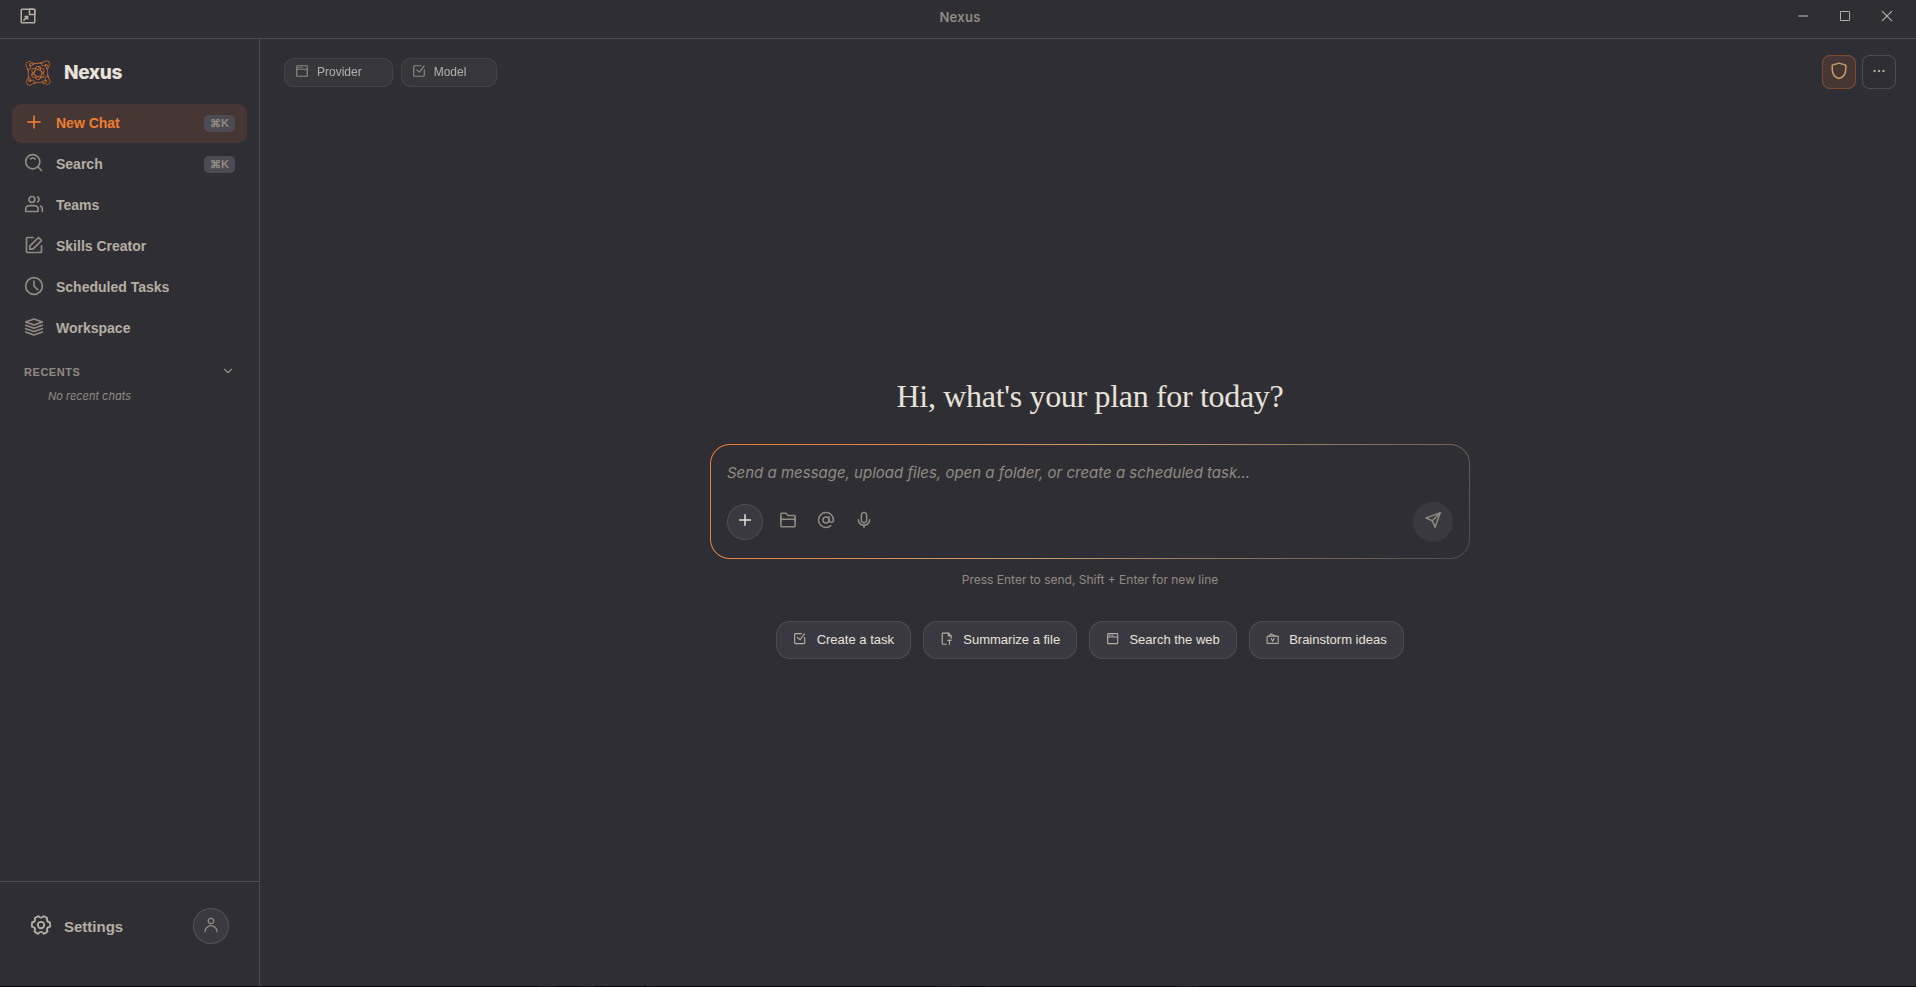
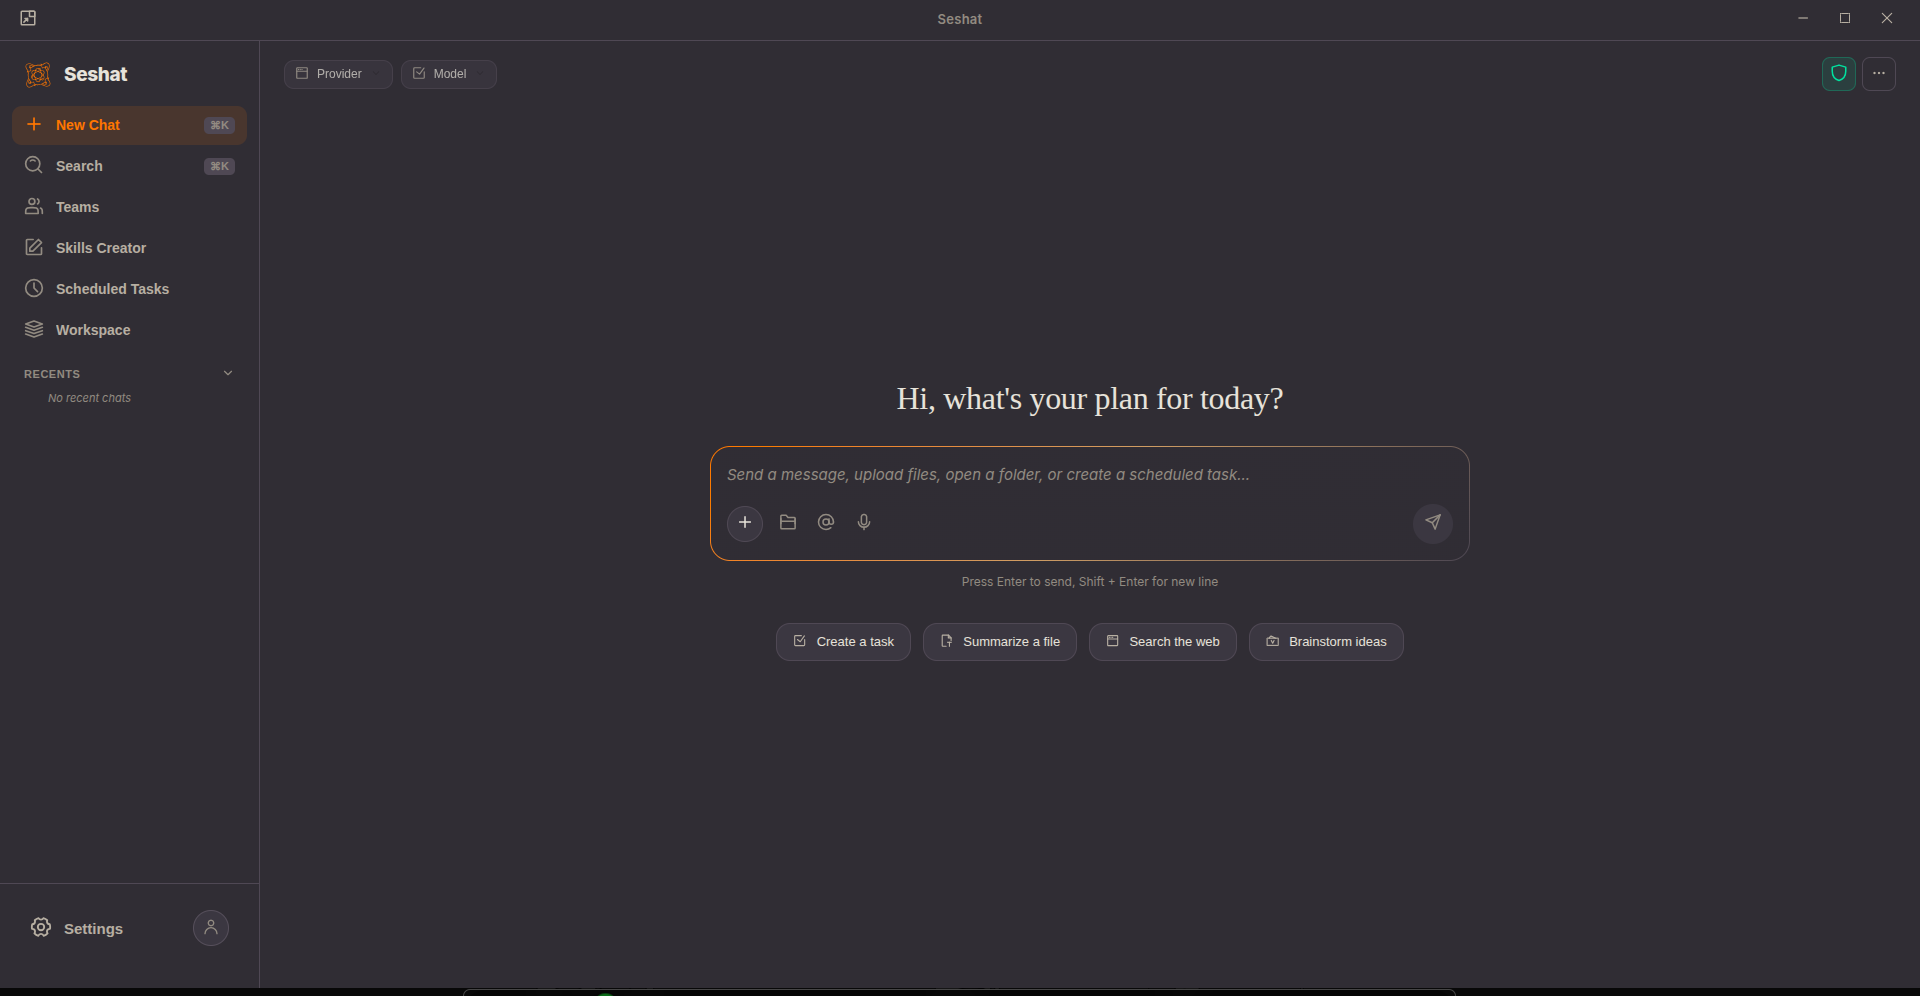
feat: rebrand desktop app to SeshatOS, refresh screenshots
- Rename all visible Nexus/NEXUS text to SeshatOS across seshat-ui
- Add seshat.svg logo, update NexusLogo src and alt
- Fix backend trust handshake: default runtime root to ~/.config/seshat
- Replace old desktop captures with new SeshatOS screenshots (6 screens)
- Update README screenshot grid and website Screenshots tabs

diff --git a/seshat-ui/src/renderer/pages/user-settings/index.tsx b/seshat-ui/src/renderer/pages/user-settings/index.tsx
@@ -257,7 +257,7 @@ function ProfileView() {
       <header className="sv-view-header">
         <div className="sv-header-info">
           <h1>Profile</h1>
-          <p>Your identity and preferences on Nexus</p>
+          <p>Your identity and preferences on SeshatOS</p>
         </div>
       </header>
 
@@ -318,7 +318,7 @@ function ProfileView() {
             <div className="sv-brand-icon"><Robot size={18} /></div>
             <div>
               <div className="sv-brand-name">Agent Preferences</div>
-              <div className="sv-brand-sub">How Nexus agents interact with you</div>
+              <div className="sv-brand-sub">How SeshatOS agents interact with you</div>
             </div>
           </div>
         </div>
@@ -394,7 +394,7 @@ function ProfileView() {
               )}
             </div>
             <p style={{ margin: '0 0 10px', fontSize: 12, color: 'var(--color-text-muted)', lineHeight: 1.5 }}>
-              Nexus will keep these in mind across all chats.
+              SeshatOS will keep these in mind across all chats.
             </p>
             {editInstructions ? (
               <>
@@ -555,7 +555,7 @@ function AccountView() {
             </div>
             <div className="modal-content">
               <p className="up-delete-copy">
-                This closes your Nexus account immediately. To confirm, type <strong>{user.email}</strong> below.
+                This closes your SeshatOS account immediately. To confirm, type <strong>{user.email}</strong> below.
               </p>
               <div className="modal-field">
                 <label>Confirm your email</label>
@@ -593,7 +593,7 @@ function ConnectionsView() {
       <header className="sv-view-header">
         <div className="sv-header-info">
           <h1>Connections</h1>
-          <p>Linked accounts will live here once Nexus exposes dedicated identity integrations.</p>
+          <p>Linked accounts will live here once SeshatOS exposes dedicated identity integrations.</p>
         </div>
       </header>
 
@@ -609,7 +609,7 @@ function ConnectionsView() {
         </div>
         <div className="sv-card-body up-connection-stack">
           <div className="up-support-note">
-            OpenAI OAuth is now configured from the provider settings screen so it stays separate from Nexus account login and register flows.
+            OpenAI OAuth is now configured from the provider settings screen so it stays separate from SeshatOS account login and register flows.
           </div>
           <div className="up-connection-actions">
             <button className="up-primary-btn" onClick={() => navigate('/settings?tab=providers')}>

diff --git a/website/src/pages/home/Screenshots.tsx b/website/src/pages/home/Screenshots.tsx
@@ -12,10 +12,11 @@ const CLI_SHOTS = [
 ]
 
 const DESKTOP_SHOTS = [
-  { src: '/desktop/home.png',     caption: 'Home',     detail: 'Multi-workspace dashboard with sessions and knowledge base', alt: 'Seshat desktop app home,multi-workspace AI agent dashboard' },
-  { src: '/desktop/Agent.png',    caption: 'Agent',    detail: 'Full agent chat with tool call visualization and thinking trace', alt: 'Seshat desktop agent chat,tool call visualization and thinking trace' },
-  { src: '/desktop/skills.png',   caption: 'Skills',   detail: 'Visual skills creator to build and manage reusable agent behaviors', alt: 'Seshat skills creator,building reusable AI agent behaviors visually' },
-  { src: '/desktop/settings.png', caption: 'Settings', detail: 'Provider config, API keys, MCP servers and workspace settings', alt: 'Seshat desktop settings,MCP servers, API keys and workspace configuration' },
+  { src: '/desktop/home.png',            caption: 'Home',            detail: 'New chat, quick actions, provider and model selector', alt: 'Seshat desktop home,new chat interface with sidebar and quick actions' },
+  { src: '/desktop/skills.png',          caption: 'Skills Creator',  detail: 'Author reusable agent skills with live test chat', alt: 'Seshat skills creator,building reusable AI agent behaviors visually' },
+  { src: '/desktop/scheduled-tasks.png', caption: 'Scheduled Tasks', detail: 'Recurring agent jobs on cron, with built-in TaskAgent', alt: 'Seshat scheduled tasks,cron-based recurring AI agent jobs with TaskAgent' },
+  { src: '/desktop/workspace.png',       caption: 'Workspace',       detail: 'Agents, knowledge bases and document collections', alt: 'Seshat workspace,AI agents and knowledge base document collections' },
+  { src: '/desktop/web-search.png',      caption: 'Web Search',      detail: 'Domain catalog and web search provider configuration', alt: 'Seshat web search settings,domain catalog and search provider configuration' },
 ]
 
 type Tab = 'cli' | 'desktop'

diff --git a/seshat-ui/src/renderer/pages/settings/GeneralView.tsx b/seshat-ui/src/renderer/pages/settings/GeneralView.tsx
@@ -93,7 +93,7 @@ export function GeneralView() {
       <header className="sv-view-header">
         <div className="sv-header-info">
           <h1>General</h1>
-          <p>Personalise how Nexus understands you and how it responds.</p>
+          <p>Personalise how SeshatOS understands you and how it responds.</p>
         </div>
         {dirty && (
           <button className="gv-save-btn" onClick={save} disabled={saving}>
@@ -114,7 +114,7 @@ export function GeneralView() {
             <div className="sv-brand-icon"><User size={20} /></div>
             <div>
               <div className="sv-brand-name">Identity</div>
-              <div className="sv-brand-sub">How Nexus refers to and understands you</div>
+              <div className="sv-brand-sub">How SeshatOS refers to and understands you</div>
             </div>
           </div>
         </div>
@@ -147,7 +147,7 @@ export function GeneralView() {
             <label>About you</label>
             <textarea
               className="gv-textarea"
-              placeholder="Describe yourself, your projects, your expertise… Nexus will use this to give you more relevant answers."
+              placeholder="Describe yourself, your projects, your expertise… SeshatOS will use this to give you more relevant answers."
               rows={4}
               value={form.about}
               onChange={(e) => set('about', e.target.value)}
@@ -192,7 +192,7 @@ export function GeneralView() {
             <label>Additional context</label>
             <textarea
               className="gv-textarea"
-              placeholder="Anything else you want Nexus to always keep in mind."
+              placeholder="Anything else you want SeshatOS to always keep in mind."
               rows={3}
               value={form.extra_context}
               onChange={(e) => set('extra_context', e.target.value)}

diff --git a/seshat-ui/src/renderer/pages/skills-creator/index.tsx b/seshat-ui/src/renderer/pages/skills-creator/index.tsx
@@ -1019,11 +1019,11 @@ function CreateSkillPanel({
 // ─── SkillAgent panel ────────────────────────────────────────────────────────
 
 const AGENT_ACTIONS = [
-  { icon: '✦', label: 'Create a new skill',  desc: "I'll help you scaffold a new skill from scratch.", prompt: 'Help me create a new Nexus skill from scratch.' },
-  { icon: '◎', label: 'Explain a skill',     desc: "I'll explain how a skill works.",                 prompt: 'Explain how Nexus skills work and what skill.md should contain.' },
+  { icon: '✦', label: 'Create a new skill',  desc: "I'll help you scaffold a new skill from scratch.", prompt: 'Help me create a new SeshatOS skill from scratch.' },
+  { icon: '◎', label: 'Explain a skill',     desc: "I'll explain how a skill works.",                 prompt: 'Explain how SeshatOS skills work and what skill.md should contain.' },
   { icon: '✎', label: 'Improve a skill',     desc: "I'll help you optimize or refactor your skill.",  prompt: 'Help me improve and optimize my current skill.' },
-  { icon: '⬡', label: 'Test a skill',        desc: "I'll help you test and debug your skill.",        prompt: 'How can I test and debug my Nexus skill effectively?' },
-  { icon: '◈', label: 'Browse skills',       desc: 'See examples of existing skills.',                prompt: 'Show me examples of well-written Nexus skills.' },
+  { icon: '⬡', label: 'Test a skill',        desc: "I'll help you test and debug your skill.",        prompt: 'How can I test and debug my SeshatOS skill effectively?' },
+  { icon: '◈', label: 'Browse skills',       desc: 'See examples of existing skills.',                prompt: 'Show me examples of well-written SeshatOS skills.' },
 ]
 
 function SkillAgentPanel({

diff --git a/seshat-ui/src/renderer/pages/ScheduledTasks.tsx b/seshat-ui/src/renderer/pages/ScheduledTasks.tsx
@@ -108,7 +108,7 @@ const TASK_AGENT_ACTIONS = [
   { icon: '◎', label: 'Explain cron',   desc: 'Explain cron expressions with examples.',     prompt: 'Explain cron expressions with practical examples. Show me the most common patterns.' },
   { icon: '✎', label: 'Daily report',   desc: 'Set up a daily automated report.',            prompt: 'Help me set up a daily automated report task. What prompt should I write?' },
   { icon: '⬡', label: 'Debug a task',   desc: "Why isn't my task running as expected?",     prompt: "Help me debug a scheduled task that isn't running correctly. What should I check?" },
-  { icon: '◈', label: 'Task examples',  desc: 'Browse common scheduled task patterns.',      prompt: 'Show me examples of useful scheduled tasks I could set up with Nexus.' },
+  { icon: '◈', label: 'Task examples',  desc: 'Browse common scheduled task patterns.',      prompt: 'Show me examples of useful scheduled tasks I could set up with SeshatOS.' },
 ]
 
 // ─── Main page ────────────────────────────────────────────────────────────────

diff --git a/seshat-ui/src/main/runtime.ts b/seshat-ui/src/main/runtime.ts
@@ -7,13 +7,13 @@ const DEFAULT_BACKEND_ORIGIN = 'http://127.0.0.1:8090'
 const DESKTOP_SECRET_FILE = 'desktop-bridge-secret'
 
 export function resolveRuntimeRoot() {
-  const explicit = process.env.NEXUS_RUNTIME_ROOT?.trim()
+  const explicit = (process.env.SESHAT_RUNTIME_ROOT ?? process.env.NEXUS_RUNTIME_ROOT)?.trim()
   if (explicit) return explicit
-  return join(app.getPath('home'), '.config', 'nexus')
+  return join(app.getPath('home'), '.config', 'seshat')
 }
 
 export function resolveBackendOrigin() {
-  return (process.env.NEXUS_BACKEND_ORIGIN?.trim() || DEFAULT_BACKEND_ORIGIN).replace(/\/$/, '')
+  return ((process.env.SESHAT_BACKEND_ORIGIN ?? process.env.NEXUS_BACKEND_ORIGIN)?.trim() || DEFAULT_BACKEND_ORIGIN).replace(/\/$/, '')
 }
 
 export function getDesktopBridgeSecretPath() {

diff --git a/seshat-ui/src/renderer/components/auth/AuthLayout.tsx b/seshat-ui/src/renderer/components/auth/AuthLayout.tsx
@@ -46,7 +46,7 @@ export function AuthLayout({ children, title, subtitle }: Props) {
         .auth-brand-name {
           font-size: 22px;
           font-weight: 700;
-          letter-spacing: 0.18em;
+          letter-spacing: -0.01em;
           color: var(--color-text);
           margin-bottom: 10px;
         }
@@ -167,8 +167,8 @@ export function AuthLayout({ children, title, subtitle }: Props) {
             <NexusLogo size={80} />
 
             <div>
-              <div className="auth-brand-name">NEXUS</div>
-              <div className="auth-brand-sub">AI Operating System</div>
+              <div className="auth-brand-name">SeshatOS</div>
+              <div className="auth-brand-sub">AI Agent Runtime</div>
             </div>
 
             <div className="auth-divider" />

diff --git a/seshat-ui/src/renderer/pages/Conversation.tsx b/seshat-ui/src/renderer/pages/Conversation.tsx
@@ -450,10 +450,10 @@ export function Conversation() {
               void sendMessage(prompt, { corpusId: selectedCorpusId, fileIds })
             }}
             onStop={() => { void stopMessage() }}
-            placeholder="Message Seshat..."
+            placeholder="Message SeshatOS..."
             showAutoButton
             isStreaming={isStreaming}
-            statusText={agentState.activeTool?.message || (isStreaming ? 'Nexus is running…' : undefined)}
+            statusText={agentState.activeTool?.message || (isStreaming ? 'SeshatOS is running…' : undefined)}
             selectedCorpusId={selectedCorpusId}
             onCorpusChange={setSelectedCorpusId}
             permissionMode={permissionMode}

diff --git a/seshat-ui/src/main/ipc/backend.ts b/seshat-ui/src/main/ipc/backend.ts
@@ -100,7 +100,7 @@ async function ensureBackendTrusted() {
     const body = await res.json() as { algorithm?: string; proof?: string }
     const expected = desktopBridgeProof(secret, nonce)
     if (body.algorithm !== 'hmac-sha256' || body.proof !== expected) {
-      throw new Error('Backend trust handshake failed. Check that nexus-engine uses the same NEXUS_RUNTIME_ROOT as Nexus UI.')
+      throw new Error('Backend trust handshake failed. Check that seshat-ai backend uses the same SESHAT_RUNTIME_ROOT as the desktop app.')
     }
   })()
 

diff --git a/seshat-ui/src/renderer/pages/settings/WebSearchView.tsx b/seshat-ui/src/renderer/pages/settings/WebSearchView.tsx
@@ -280,7 +280,7 @@ function DomainCatalog({
           <div className="dc-header-icon"><Earth size={20} /></div>
           <div>
             <div className="dc-header-title">Domain Catalog</div>
-            <div className="dc-header-sub">Choose which domains Nexus can use when searching the web.</div>
+            <div className="dc-header-sub">Choose which domains SeshatOS can use when searching the web.</div>
           </div>
         </div>
         <button

diff --git a/seshat-ui/src/renderer/pages/settings/index.tsx b/seshat-ui/src/renderer/pages/settings/index.tsx
@@ -152,7 +152,7 @@ function SystemView() {
               <div className="sv-brand-icon"><Computer size={20} /></div>
               <div>
                 <div className="sv-brand-name">Backend</div>
-                <div className="sv-brand-sub">Seshat API</div>
+                <div className="sv-brand-sub">SeshatOS API</div>
               </div>
             </div>
           </div>

diff --git a/seshat-ui/src/renderer/pages/Register.tsx b/seshat-ui/src/renderer/pages/Register.tsx
@@ -73,7 +73,7 @@ export function Register() {
   }
 
   return (
-    <AuthLayout title="Create your account" subtitle="Start building with Nexus today">
+    <AuthLayout title="Create your account" subtitle="Start building with SeshatOS today">
       <form onSubmit={handleSubmit} style={{ display: 'flex', flexDirection: 'column', gap: 16 }}>
 
         {/* Full name */}
